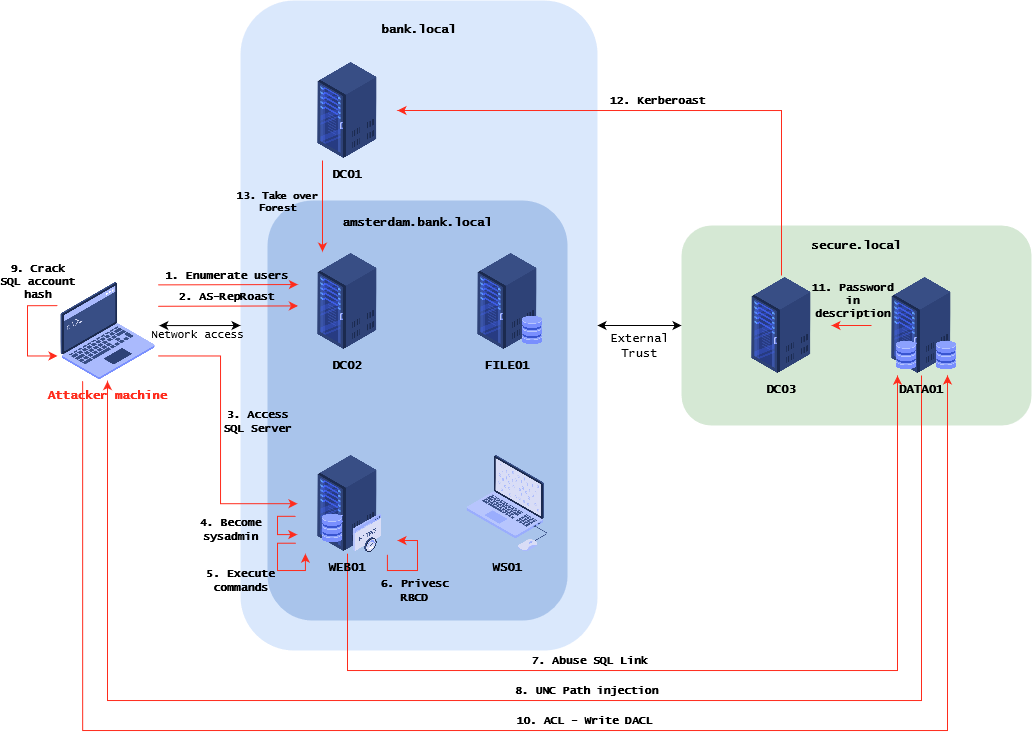
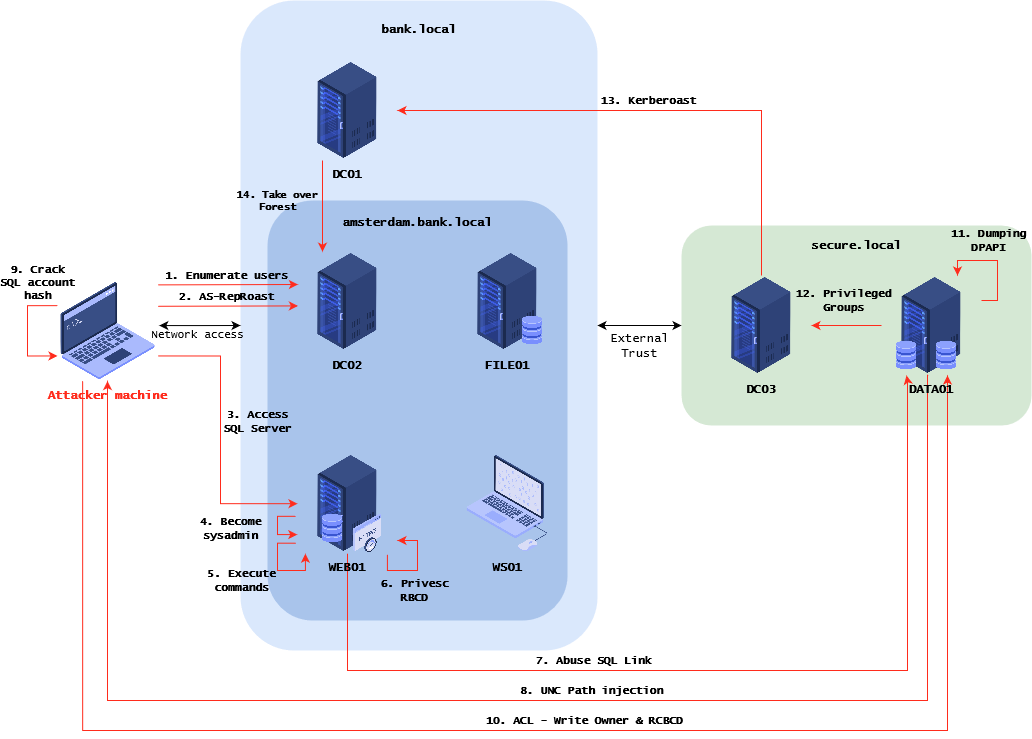
GitBook: [#353] No subject

diff --git a/lab-setup/lab-overview/attack-path-2/README.md b/lab-setup/lab-overview/attack-path-2/README.md
@@ -2,23 +2,24 @@
 
 ## Attack path visualized
 
-![](<../../../.gitbook/assets/attack\_path2.drawio (1).png>)
+![](<../../../.gitbook/assets/attack\_path2.drawio (2).png>)
 
 ## Tasks for the specified attack path
 
 1. Enumerate valid usernames.
-2. Check if any of the valid users has the 'DONT\_REQ\_PREAUTH' set.
-3. Access the SQL instance.
+2. Check if any of the valid users has interesting attributes.
+3. Look for anything interesting the new user can access.
 4. Escalate privileges to sysadmin.
-5. Get a shell on the SQL server.
-6. Escalate privileges with Resource Based Constrained Delegation.
-7. Enumerate SQL Links.
-8. Perform UNC Path injection and capture the hash of the user the SQL server is running as.
-9. Crack the hash retrieved through UNC PATH injection
-10. Abuse the write Owner acl.
-11. Check the description for passwords.
-12. Check for SPN's across trusts.
-13. Take over the `bank.local` forest.
+5. Get a shell on the server.
+6. Escalate privileges on the machine with a delegation attack.
+7. Enumerate SQL Links to hop accross trusts.
+8. Perform UNC Path injection and capture the hash of SQL Service user.
+9. Crack the hash.
+10. Check for ACL's and get access to the system.
+11. Look for saved credentials on the machine (DPAPI).
+12. Become domain admin by abusing the "Backup Operators" group.
+13. Check for interesting user attributes accross the trust to `bank.local`.
+14. Take over the `bank.local` forest.
 
 ## Steps for the specified attack path
 
@@ -26,8 +27,8 @@
 [enumerate-logins](../../../vulnerabilities-misconfigurations/active-directory-attacks/sql-server-attacks/privilege-escalation/enumerate-logins/)
 {% endcontent-ref %}
 
-{% content-ref url="../../../vulnerabilities-misconfigurations/active-directory-attacks/password-spraying.md" %}
-[password-spraying.md](../../../vulnerabilities-misconfigurations/active-directory-attacks/password-spraying.md)
+{% content-ref url="../../../vulnerabilities-misconfigurations/initial-access-attacks/username-enumeration/as-rep-roasting.md" %}
+[as-rep-roasting.md](../../../vulnerabilities-misconfigurations/initial-access-attacks/username-enumeration/as-rep-roasting.md)
 {% endcontent-ref %}
 
 {% content-ref url="../../../vulnerabilities-misconfigurations/active-directory-attacks/sql-server-attacks/initial-access/normal-domain-user-access.md" %}
@@ -45,4 +46,14 @@
 {% content-ref url="../../../vulnerabilities-misconfigurations/active-directory-attacks/sql-server-attacks/executing-commands.md" %}
 [executing-commands.md](../../../vulnerabilities-misconfigurations/active-directory-attacks/sql-server-attacks/executing-commands.md)
 {% endcontent-ref %}
+
+
+
+{% content-ref url="../../../vulnerabilities-misconfigurations/active-directory-attacks/sql-server-attacks/database-links.md" %}
+[database-links.md](../../../vulnerabilities-misconfigurations/active-directory-attacks/sql-server-attacks/database-links.md)
+{% endcontent-ref %}
+
+
+
+##
 
